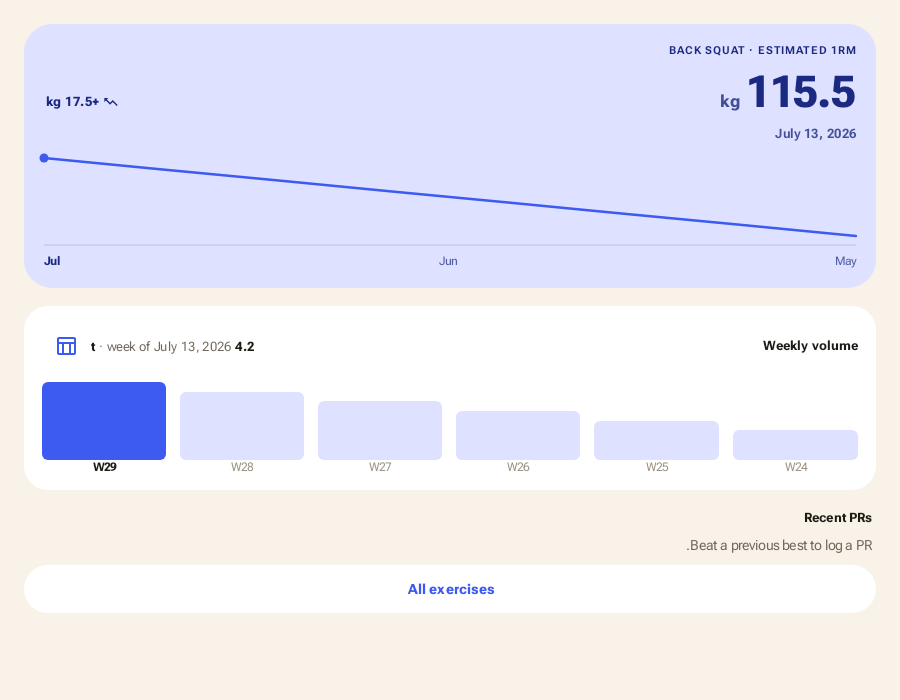
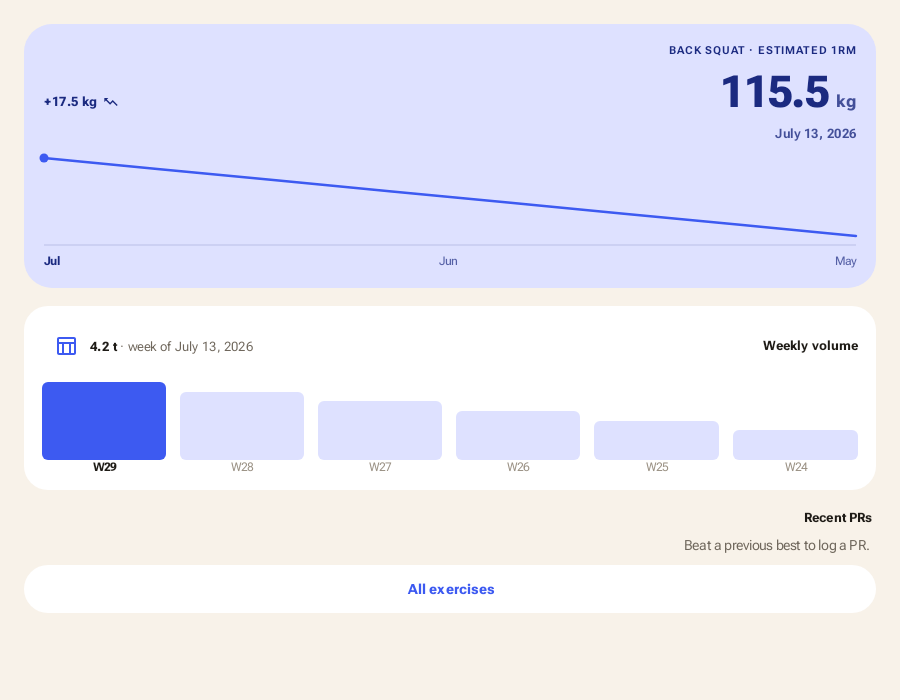
fix: preserve Training restored state

diff --git a/feature/training/src/test/java/com/musfit/ui/training/TrainingNavigationAdaptiveIntegrationTest.kt b/feature/training/src/test/java/com/musfit/ui/training/TrainingNavigationAdaptiveIntegrationTest.kt
@@ -5,6 +5,7 @@ import androidx.compose.runtime.getValue
 import androidx.compose.runtime.mutableStateOf
 import androidx.compose.runtime.setValue
 import androidx.compose.ui.test.assertCountEquals
+import androidx.compose.ui.test.junit4.StateRestorationTester
 import androidx.compose.ui.test.junit4.v2.createComposeRule
 import androidx.compose.ui.test.onAllNodesWithContentDescription
 import androidx.compose.ui.test.onAllNodesWithText
@@ -13,6 +14,7 @@ import androidx.compose.ui.test.onNodeWithText
 import androidx.compose.ui.test.performClick
 import com.musfit.data.repository.ActiveWorkoutDetail
 import com.musfit.data.repository.ActiveWorkoutSummary
+import com.musfit.data.repository.ExerciseSummary
 import com.musfit.data.repository.GoalsRepository
 import com.musfit.data.repository.LoggedWorkoutSet
 import com.musfit.data.repository.RoutineDetail
@@ -145,6 +147,65 @@ class TrainingNavigationAdaptiveIntegrationTest {
         assertEquals(1, repository.maximumActiveWorkoutCollectors)
     }
 
+    @Test
+    fun exercisePickerDestination_restoreKeepsDraftUntilExplicitlyOpenedAgain() {
+        val repository = NavigationTrainingRepository()
+        val viewModel = TrainingViewModel(repository, NavigationGoalsRepository())
+        val restoration = StateRestorationTester(compose)
+        val directive = PaneScaffoldDirective.Default.copy(maxHorizontalPartitions = 1)
+
+        restoration.setContent {
+            MusFitTheme {
+                TrainingNavigationHost(
+                    viewModel = viewModel,
+                    paneScaffoldDirectiveOverride = directive,
+                )
+            }
+        }
+
+        waitForText("All")
+        compose.onNodeWithText("All").performClick()
+        waitForText(ROUTINE_NAME)
+        compose.onNodeWithText(ROUTINE_NAME).performClick()
+        waitForText("Edit")
+        compose.onNodeWithText("Edit").performClick()
+        waitForText("Add exercise")
+        compose.onNodeWithText("Add exercise").performClick()
+        waitForContentDescription("Search exercises")
+
+        compose.runOnIdle {
+            viewModel.onRoutineExercisePickerSearchChanged("bench")
+            viewModel.toggleRoutineExercisePickerEquipment("barbell")
+            viewModel.toggleRoutineExercisePickerMuscle("chest")
+            viewModel.setRoutineExercisePickerOnlyDone(true)
+            viewModel.toggleRoutineExercisePickerSelection("exercise-bench-press")
+        }
+
+        restoration.emulateSavedInstanceStateRestore()
+        waitForContentDescription("Search exercises")
+
+        compose.runOnIdle {
+            val state = viewModel.state.value
+            assertEquals("bench", state.routineExercisePickerSearchQuery)
+            assertEquals(setOf("barbell"), state.routineExercisePickerFilters.equipment)
+            assertEquals(setOf("chest"), state.routineExercisePickerFilters.muscles)
+            assertEquals(true, state.routineExercisePickerFilters.onlyDone)
+            assertEquals(setOf("exercise-bench-press"), state.routineExercisePickerSelectedIds)
+        }
+
+        compose.onNodeWithContentDescription("Back").performClick()
+        waitForText("Add exercise")
+        compose.onNodeWithText("Add exercise").performClick()
+        waitForContentDescription("Search exercises")
+
+        compose.runOnIdle {
+            val state = viewModel.state.value
+            assertEquals("", state.routineExercisePickerSearchQuery)
+            assertEquals(TrainingPickerFilters(), state.routineExercisePickerFilters)
+            assertEquals(emptySet<String>(), state.routineExercisePickerSelectedIds)
+        }
+    }
+
     private fun waitForText(text: String) {
         compose.waitUntil(timeoutMillis = TEST_TIMEOUT_MILLIS) {
             compose.onAllNodesWithText(text).fetchSemanticsNodes().isNotEmpty()
@@ -171,6 +232,14 @@ private class NavigationGoalsRepository : GoalsRepository {
 }
 
 private class NavigationTrainingRepository : TrainingRepository {
+    private val benchPress = ExerciseSummary(
+        id = "exercise-bench-press",
+        name = "Barbell Bench Press",
+        category = "strength",
+        equipment = "barbell",
+        targetMuscles = "chest",
+        isCustom = false,
+    )
     private val routine = RoutineSummary(
         id = ROUTINE_ID,
         name = ROUTINE_NAME,
@@ -205,6 +274,12 @@ private class NavigationTrainingRepository : TrainingRepository {
             maximumActiveWorkoutCollectors = maxOf(maximumActiveWorkoutCollectors, activeWorkoutCollectors)
         }
         .onCompletion { activeWorkoutCollectors -= 1 }
+
+    override fun observeExercises(
+        query: String,
+        muscle: String?,
+        equipment: String?,
+    ): Flow<List<ExerciseSummary>> = flowOf(listOf(benchPress))
 
     override suspend fun getRoutineDetail(routineId: String): RoutineDetail? = routine
         .takeIf { it.id == routineId }

diff --git a/feature/training/src/main/java/com/musfit/ui/training/TrainingProgressContent.kt b/feature/training/src/main/java/com/musfit/ui/training/TrainingProgressContent.kt
@@ -34,6 +34,7 @@ import androidx.compose.material3.Surface
 import androidx.compose.material3.Tab
 import androidx.compose.material3.Text
 import androidx.compose.runtime.Composable
+import androidx.compose.runtime.CompositionLocalProvider
 import androidx.compose.runtime.SideEffect
 import androidx.compose.runtime.getValue
 import androidx.compose.runtime.mutableStateOf
@@ -70,6 +71,7 @@ import androidx.compose.ui.semantics.testTag
 import androidx.compose.ui.text.SpanStyle
 import androidx.compose.ui.text.buildAnnotatedString
 import androidx.compose.ui.text.font.FontWeight
+import androidx.compose.ui.text.style.TextDirection
 import androidx.compose.ui.text.style.TextOverflow
 import androidx.compose.ui.text.withStyle
 import androidx.compose.ui.unit.LayoutDirection
@@ -222,17 +224,21 @@ private fun EstimatedOneRepMaxHero(
                             testTag = e1rmVisualSelectionTag(selectedPoint)
                         },
                 ) {
-                    Text(
-                        text = selectedPoint.bestEstimatedOneRepMaxKg.formatE1rm(),
-                        style = MaterialTheme.typography.displayMedium,
-                        color = accent.onContainer,
-                    )
-                    Text(
-                        text = " kg",
-                        style = MaterialTheme.typography.titleLarge,
-                        color = accent.onContainer.copy(alpha = 0.8f),
-                        modifier = Modifier.padding(bottom = 6.dp),
-                    )
+                    CompositionLocalProvider(LocalLayoutDirection provides LayoutDirection.Ltr) {
+                        Row(verticalAlignment = Alignment.Bottom) {
+                            Text(
+                                text = selectedPoint.bestEstimatedOneRepMaxKg.formatE1rm(),
+                                style = MaterialTheme.typography.displayMedium,
+                                color = accent.onContainer,
+                            )
+                            Text(
+                                text = " kg",
+                                style = MaterialTheme.typography.titleLarge,
+                                color = accent.onContainer.copy(alpha = 0.8f),
+                                modifier = Modifier.padding(bottom = 6.dp),
+                            )
+                        }
+                    }
                     Spacer(modifier = Modifier.weight(1f))
                     val delta = e1rmDeltaKg(trend.take(selectedIndex + 1))
                     if (delta != null) {
@@ -253,7 +259,10 @@ private fun EstimatedOneRepMaxHero(
                             )
                             Text(
                                 text = deltaLabel(delta),
-                                style = MaterialTheme.typography.labelMedium.copy(fontSize = 13.sp),
+                                style = MaterialTheme.typography.labelMedium.copy(
+                                    fontSize = 13.sp,
+                                    textDirection = TextDirection.Ltr,
+                                ),
                                 fontWeight = FontWeight.ExtraBold,
                                 color = accent.onContainer,
                             )
@@ -414,7 +423,7 @@ private fun WeeklyVolumeCard(
                                 }
                                 append(" · week of ${accessibleDate(current.weekStartEpochDay)}")
                             },
-                            style = MaterialTheme.typography.bodySmall,
+                            style = MaterialTheme.typography.bodySmall.copy(textDirection = TextDirection.Ltr),
                             color = MusFitTheme.colors.onSurfaceVariant,
                             modifier = Modifier.clearAndSetSemantics {
                                 testTag = weeklyVolumeVisualSelectionTag(current)
@@ -910,7 +919,7 @@ private fun RecentPrsSection(
         if (prs.isEmpty()) {
             Text(
                 text = "Beat a previous best to log a PR.",
-                style = MaterialTheme.typography.bodyMedium,
+                style = MaterialTheme.typography.bodyMedium.copy(textDirection = TextDirection.Ltr),
                 color = MusFitTheme.colors.onSurfaceVariant,
                 modifier = Modifier.padding(bottom = 10.dp, start = 4.dp),
             )

diff --git a/feature/training/src/test/java/com/musfit/ui/training/TrainingViewModelTest.kt b/feature/training/src/test/java/com/musfit/ui/training/TrainingViewModelTest.kt
@@ -349,6 +349,36 @@ class TrainingViewModelTest {
     }
 
     @Test
+    fun restoration_retainsRoutineExercisePickerDraft() = runTest {
+        val savedStateHandle = SavedStateHandle()
+        val repository = FakeTrainingRepository()
+        val first = TrainingViewModel(repository, FakeGoalsRepository(), savedStateHandle)
+        observeTraining(first)
+        dispatcher.scheduler.advanceUntilIdle()
+
+        first.openRoutineExercisePicker()
+        first.onRoutineExercisePickerSearchChanged("bench")
+        first.toggleRoutineExercisePickerEquipment("barbell")
+        first.toggleRoutineExercisePickerMuscle("chest")
+        first.setRoutineExercisePickerOnlyDone(true)
+        first.toggleRoutineExercisePickerSelection("exercise-bench-press")
+        dispatcher.scheduler.advanceUntilIdle()
+
+        val restored = TrainingViewModel(repository, FakeGoalsRepository(), savedStateHandle)
+        observeTraining(restored)
+        dispatcher.scheduler.advanceUntilIdle()
+
+        assertEquals("bench", restored.state.value.routineExercisePickerSearchQuery)
+        assertEquals(setOf("barbell"), restored.state.value.routineExercisePickerFilters.equipment)
+        assertEquals(setOf("chest"), restored.state.value.routineExercisePickerFilters.muscles)
+        assertTrue(restored.state.value.routineExercisePickerFilters.onlyDone)
+        assertEquals(
+            setOf("exercise-bench-press"),
+            restored.state.value.routineExercisePickerSelectedIds,
+        )
+    }
+
+    @Test
     fun restoration_reopensRoomOwnedActiveWorkoutWithoutDuplicateSetOrTimerWork() = runTest {
         val savedStateHandle = SavedStateHandle()
         val repository = FakeTrainingRepository()

diff --git a/feature/training/src/main/java/com/musfit/ui/training/TrainingNavigation.kt b/feature/training/src/main/java/com/musfit/ui/training/TrainingNavigation.kt
@@ -167,7 +167,10 @@ private fun prepareTrainingRoute(
             }
         }
 
-        TrainingExercisePickerNavKey -> viewModel.openRoutineExercisePicker()
+        // The picker draft is part of restored ViewModel state. Reset it only from the
+        // explicit user action that starts a new picker session, not while rehydrating
+        // an already-current destination after host or process recreation.
+        TrainingExercisePickerNavKey -> Unit
 
         is TrainingWorkoutHistoryDetailNavKey -> {
             if (state.selectedWorkoutDetail?.summary?.sessionId != key.sessionId) {

diff --git a/feature/training/src/main/java/com/musfit/ui/training/TrainingScreen.kt b/feature/training/src/main/java/com/musfit/ui/training/TrainingScreen.kt
@@ -275,6 +275,7 @@ private fun TrainingProjectedSurface(
                 onNameChange = viewModel::onRoutineNameChanged,
                 onNotesChange = viewModel::onRoutineNotesChanged,
                 onOpenExercisePicker = {
+                    viewModel.openRoutineExercisePicker()
                     navigation.open(TrainingExercisePickerNavKey)
                 },
                 onRemoveExercise = viewModel::removeRoutineExercise,